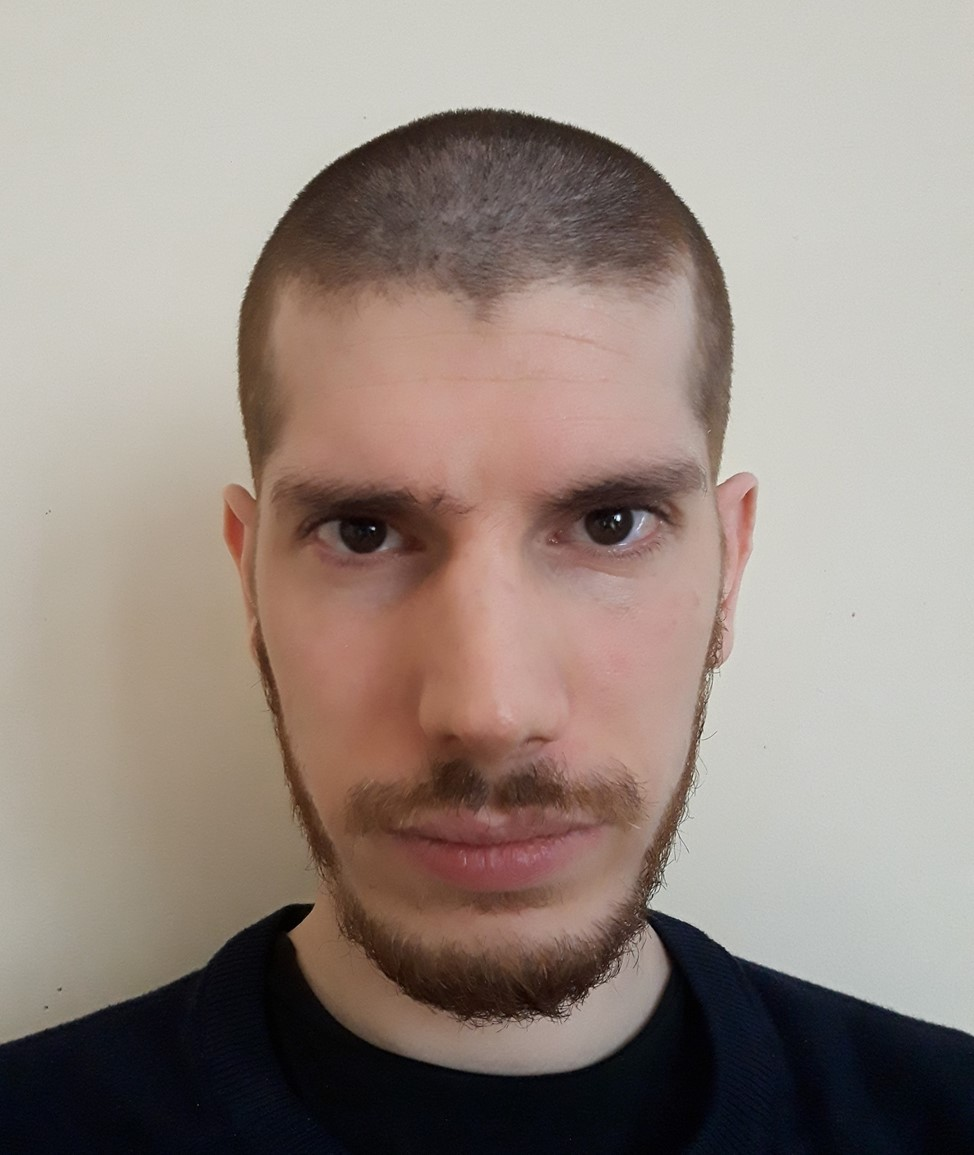
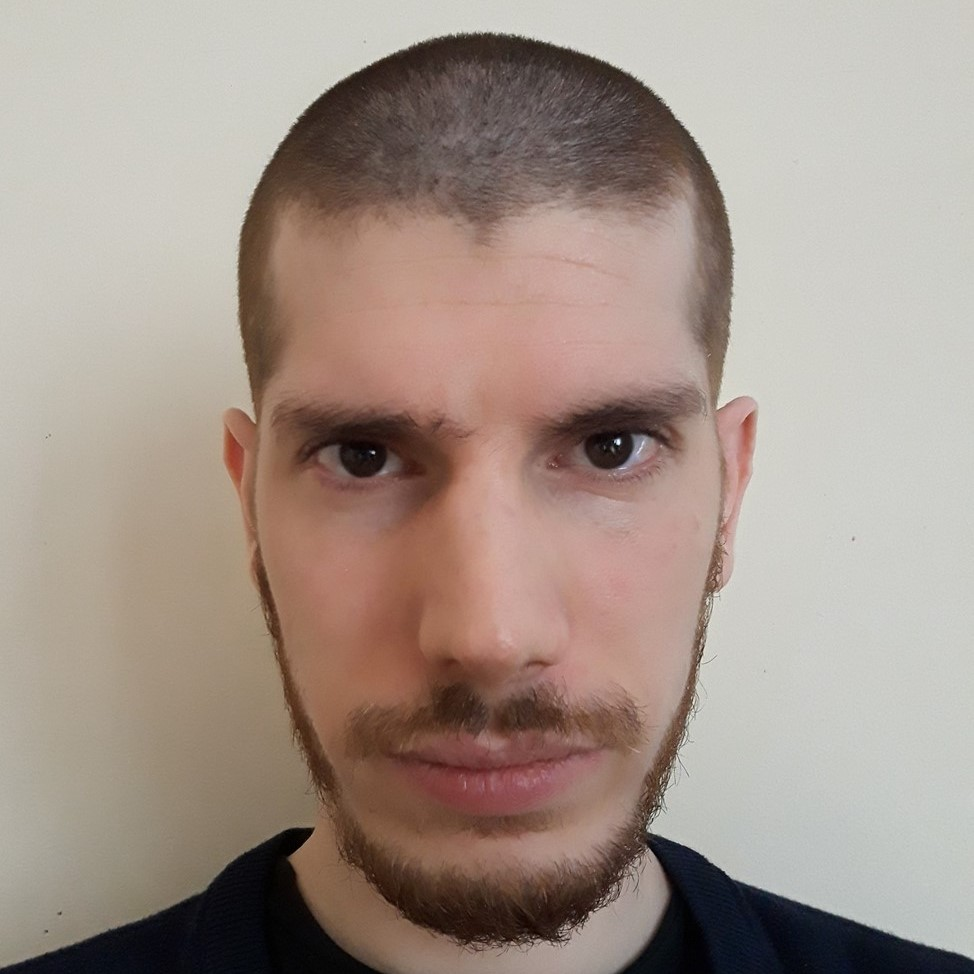
feat: update author img

diff --git a/client/src/app/about/about.component.html b/client/src/app/about/about.component.html
@@ -3,8 +3,7 @@
 <p>Facilitate learning through the use of flashcards.</p>
 <h2>Author</h2>
 <div class="author">
-  <img class="author-img" src="assets/author.jpg" alt="author" width="97"
-      height="115">
+  <img class="author-img" src="assets/author.jpg" alt="author">
   <div class="author-details">
     <p class="author-title">Johnny Gérard</p>
     <p class="author-subtitle">Software Developer</p>

diff --git a/client/src/app/about/about.component.css b/client/src/app/about/about.component.css
@@ -3,7 +3,9 @@
 }
 
 .author-img {
-    margin-right: 1em;
+    margin-right: 1.5em;
+    height: 8em;
+    border-radius: 50%;
 }
 
 .author-details {
